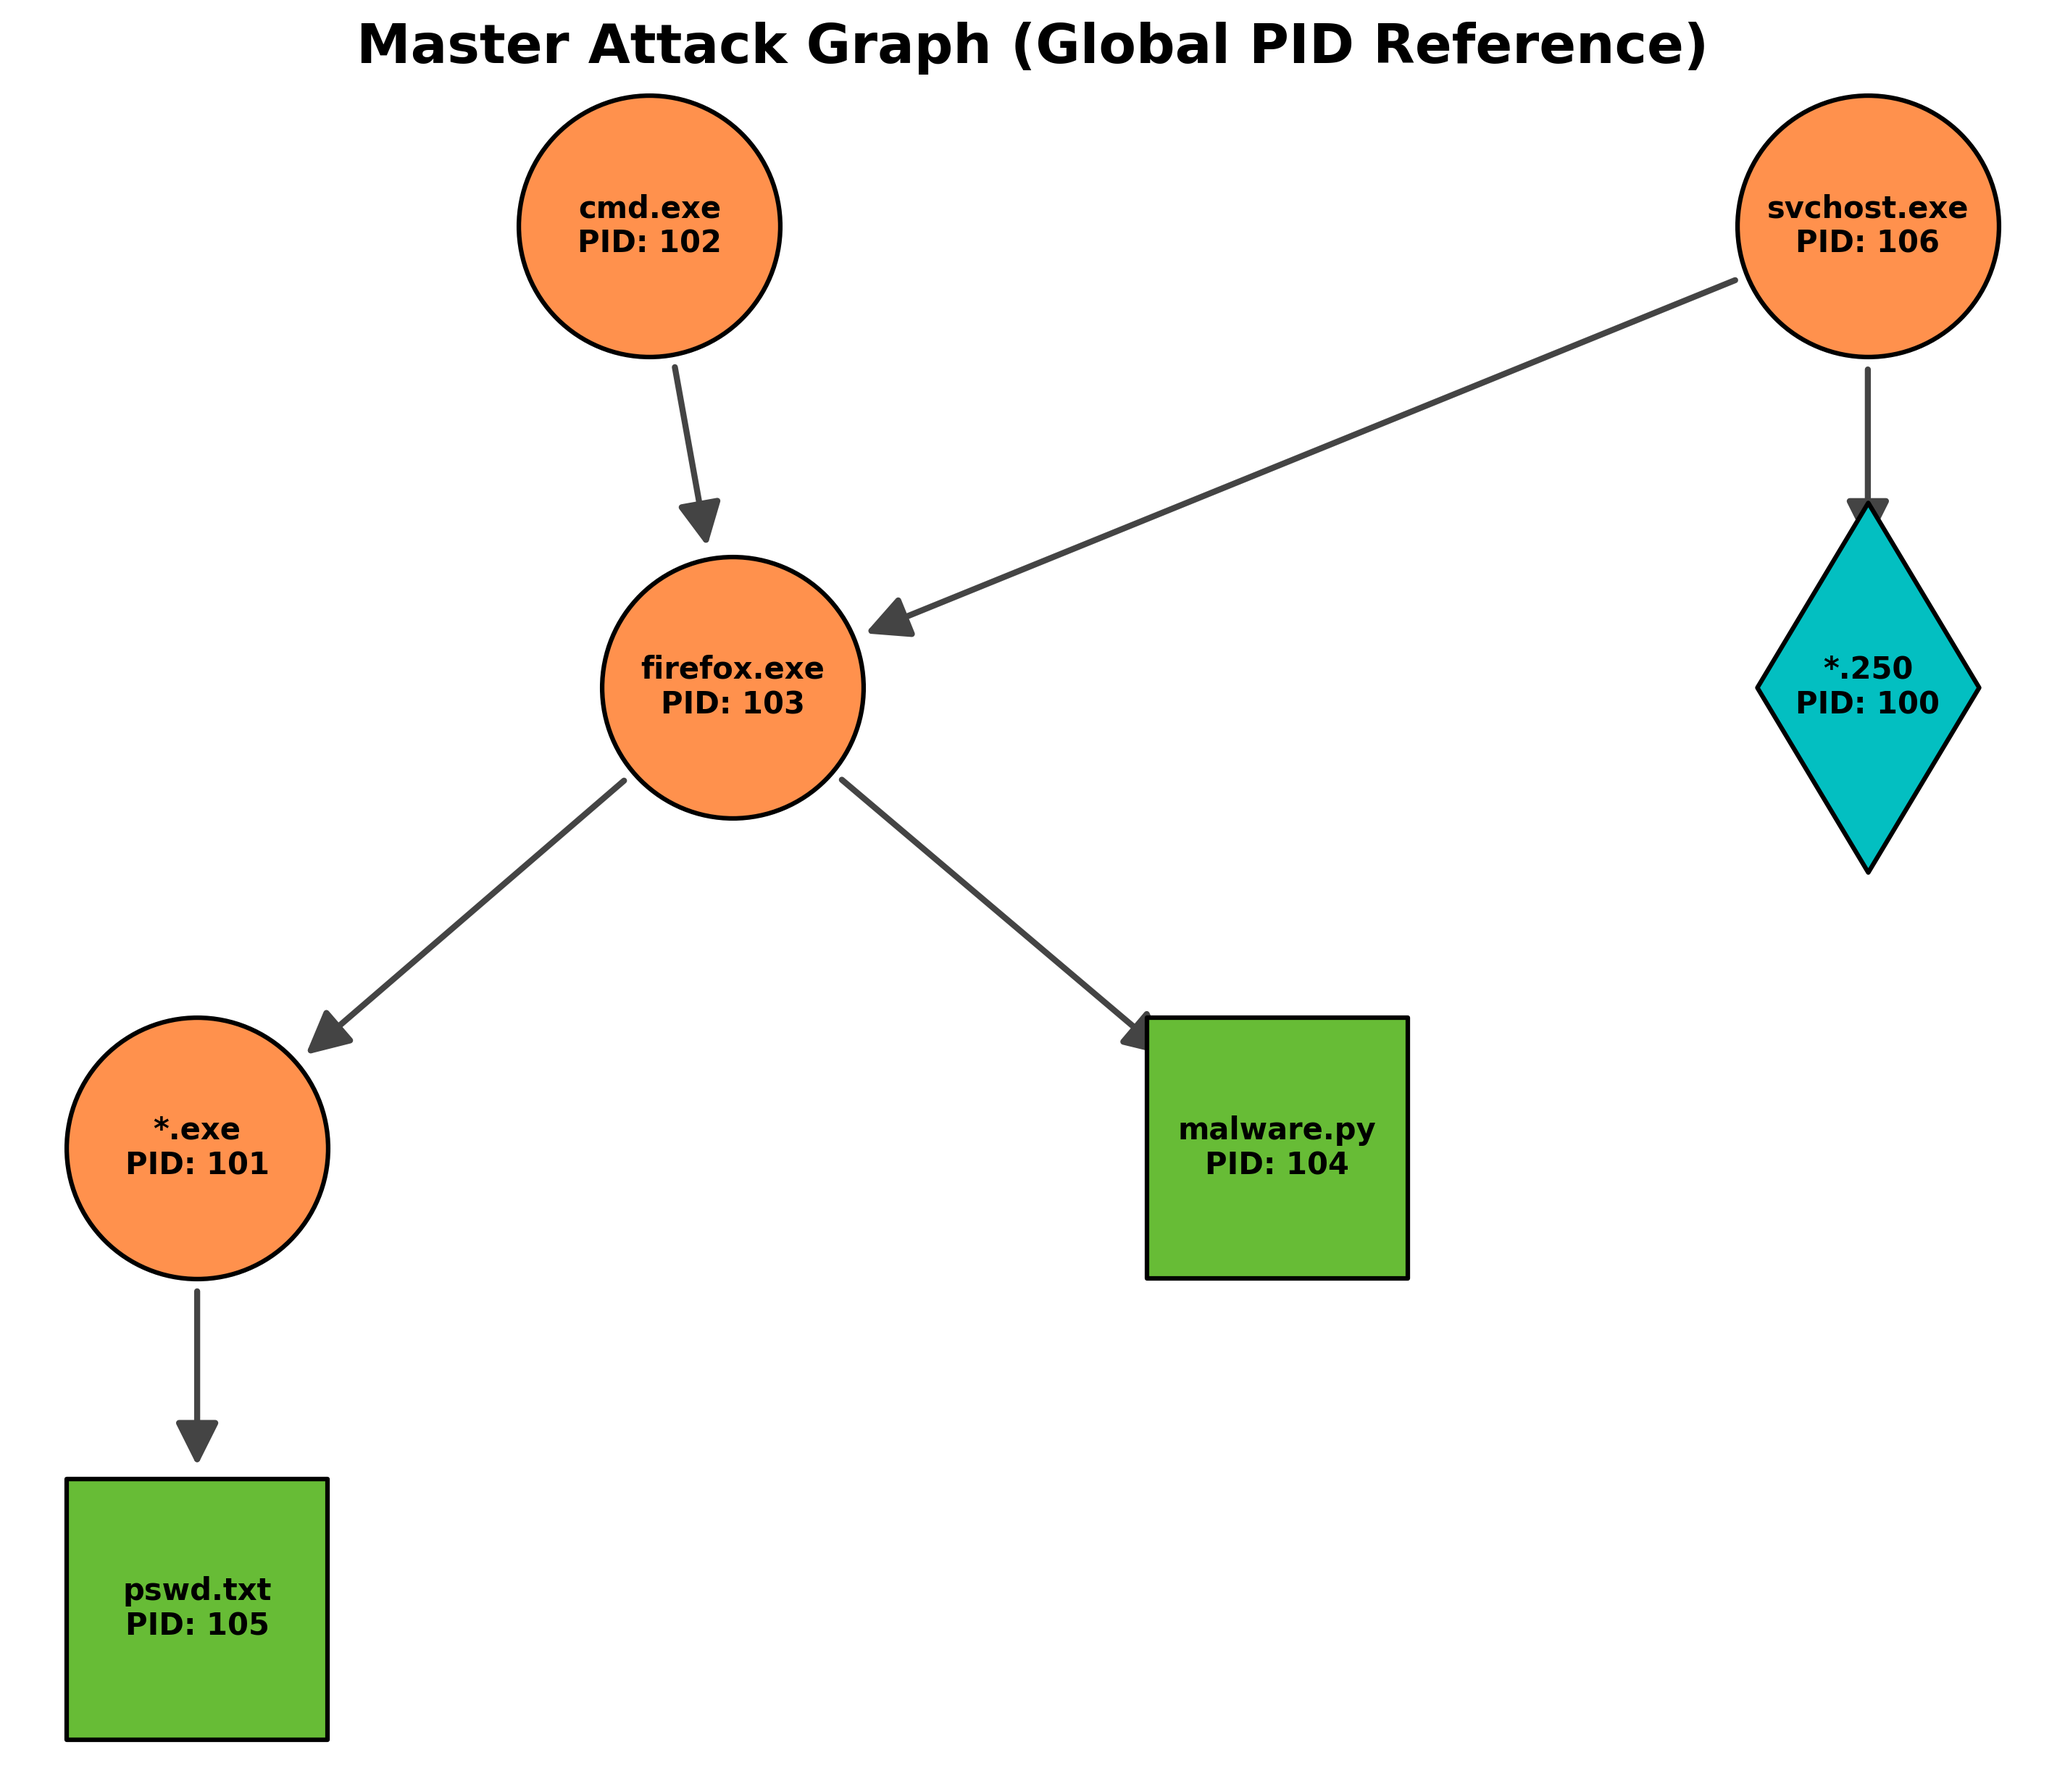
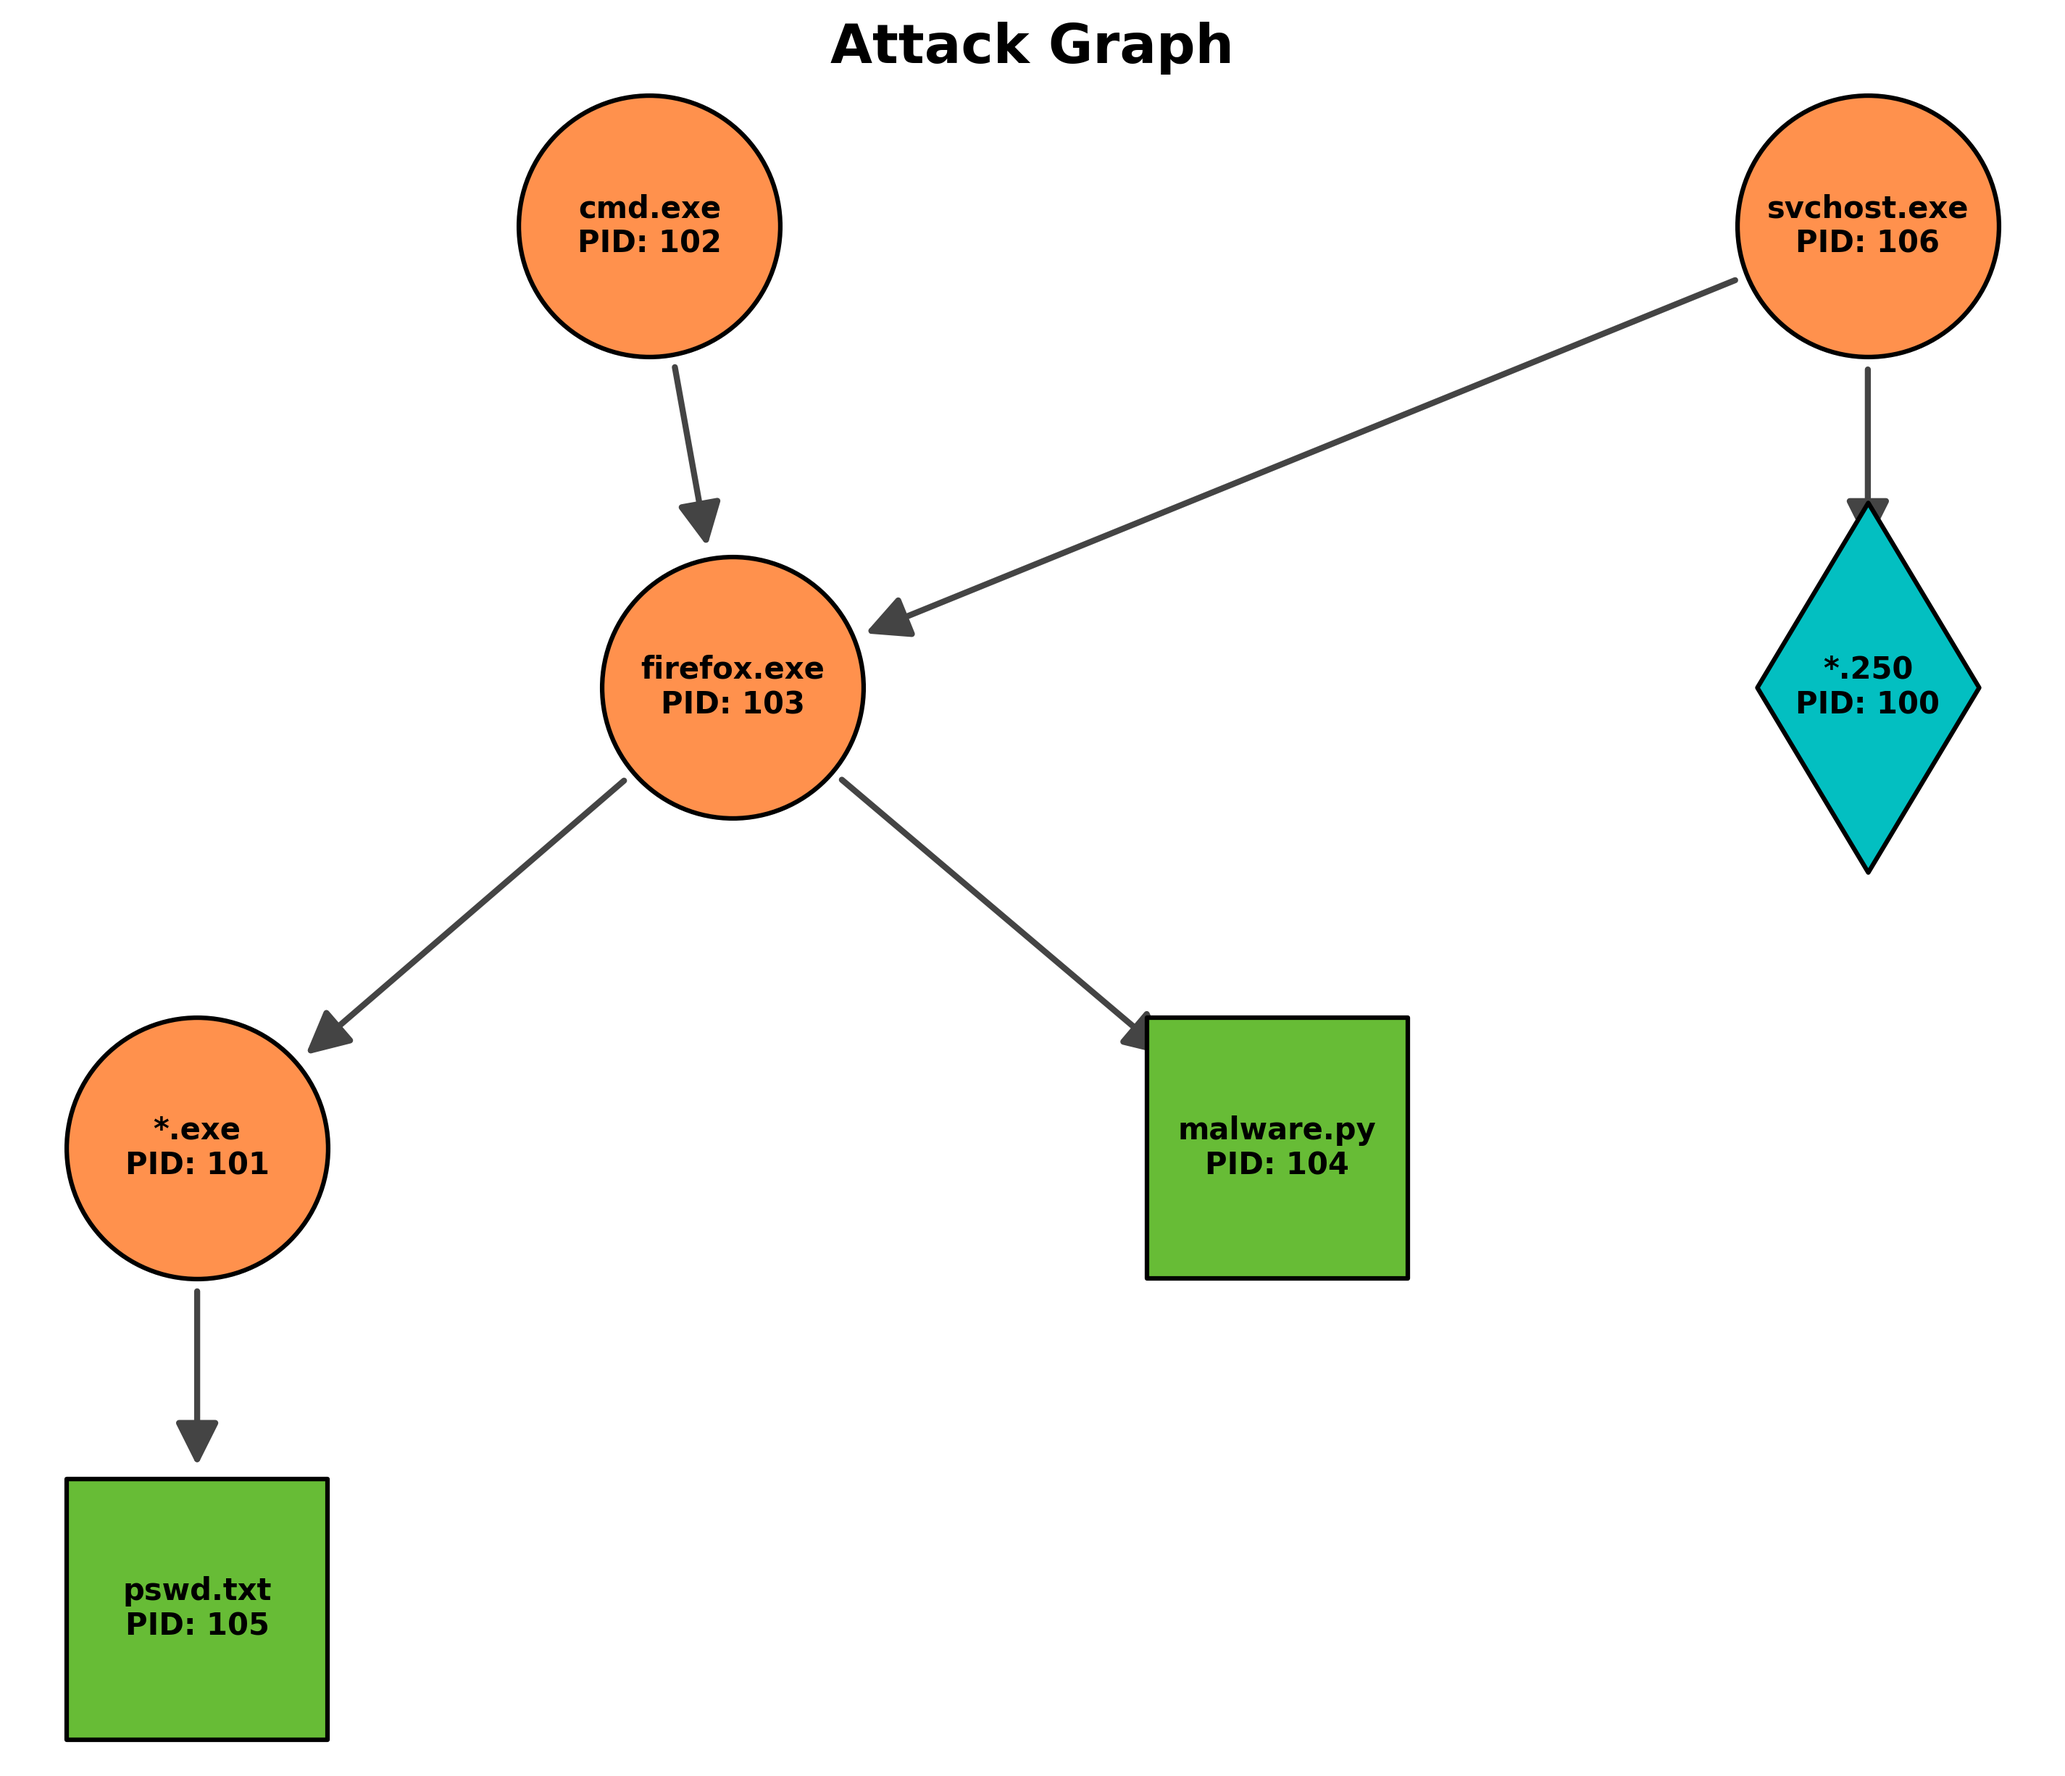
update script so it outputs one log file per attack tree

Changed region(s): [[0.1561, 0.0, 0.8432, 0.062]]

diff --git a/src/python/generate_data.py b/src/python/generate_data.py
@@ -21,25 +21,24 @@ def generate_ids_research_pipeline():
 
     mined_graph = nx.DiGraph()
     parents = [n for n, d in master.out_degree() if d > 0]
-
-    for parent in parents:
-        parent_pid = global_pid_map[parent]
-        for child_name in master.successors(parent):
-            child_pid = global_pid_map[child_name]
-            mined_graph.add_edge(parent_pid, child_pid)
-
     target_names = ["malware.py", "pswd.txt"]
 
-    logs = []
-    for ppid, pid in mined_graph.edges():
-        proc_name = inv_pid_map[pid]
-        is_seed = 1 if proc_name in target_names else 0
-        logs.append((pid, ppid, is_seed))
-    
-    logs.sort()
-    with open("data/process_stream.log", "w") as f:
-        for pid, ppid, s in logs:
-            f.write(f"{pid} {ppid} {s}\n")
+    for i, parent_name in enumerate(parents):
+        parent_pid = global_pid_map[parent_name]
+        subtree_logs = []
+        
+        for child_name in master.successors(parent_name):
+            child_pid = global_pid_map[child_name]
+            mined_graph.add_edge(parent_pid, child_pid)
+            
+            is_seed = 1 if child_name in target_names else 0
+            subtree_logs.append((child_pid, parent_pid, is_seed))
+        
+        filename = f"data/subtree_{i+1}_{parent_name}.log"
+        with open(filename, "w") as f:
+            for pid, ppid, s in sorted(subtree_logs):
+                f.write(f"{pid} {ppid} {s}\n")
+        print(f"Generated: {filename}")
 
     return master, mined_graph, global_pid_map, inv_pid_map, target_names
 
@@ -74,7 +73,7 @@ def save_plots(master, mined_graph, global_pid_map, inv_pid_map, target_names):
 
     plt.figure(figsize=(12, 10))
     draw_styled_graph(master, global_pid_map, is_master=True)
-    plt.title("Master Attack Graph (Global PID Reference)", fontsize=18, fontweight='bold')
+    plt.title("Attack Graph", fontsize=18, fontweight='bold')
     plt.axis('off')
     plt.savefig("data/attack_graph.png", dpi=300, bbox_inches='tight')
     plt.close()
@@ -92,7 +91,7 @@ def save_plots(master, mined_graph, global_pid_map, inv_pid_map, target_names):
         ax.set_title(f"Subtree {i+1}: {parent_name} Star", fontsize=16, fontweight='bold')
         ax.axis('off')
 
-    plt.suptitle("Parallel Mined Subtrees (Consistent Global PIDs)", fontsize=24, fontweight='bold', y=0.98)
+    plt.suptitle("Mined Attack Trees", fontsize=24, fontweight='bold', y=0.98)
     plt.tight_layout(rect=[0, 0.03, 1, 0.95])
     plt.savefig("data/attack_trees.png", dpi=300, bbox_inches='tight')
     plt.close()
